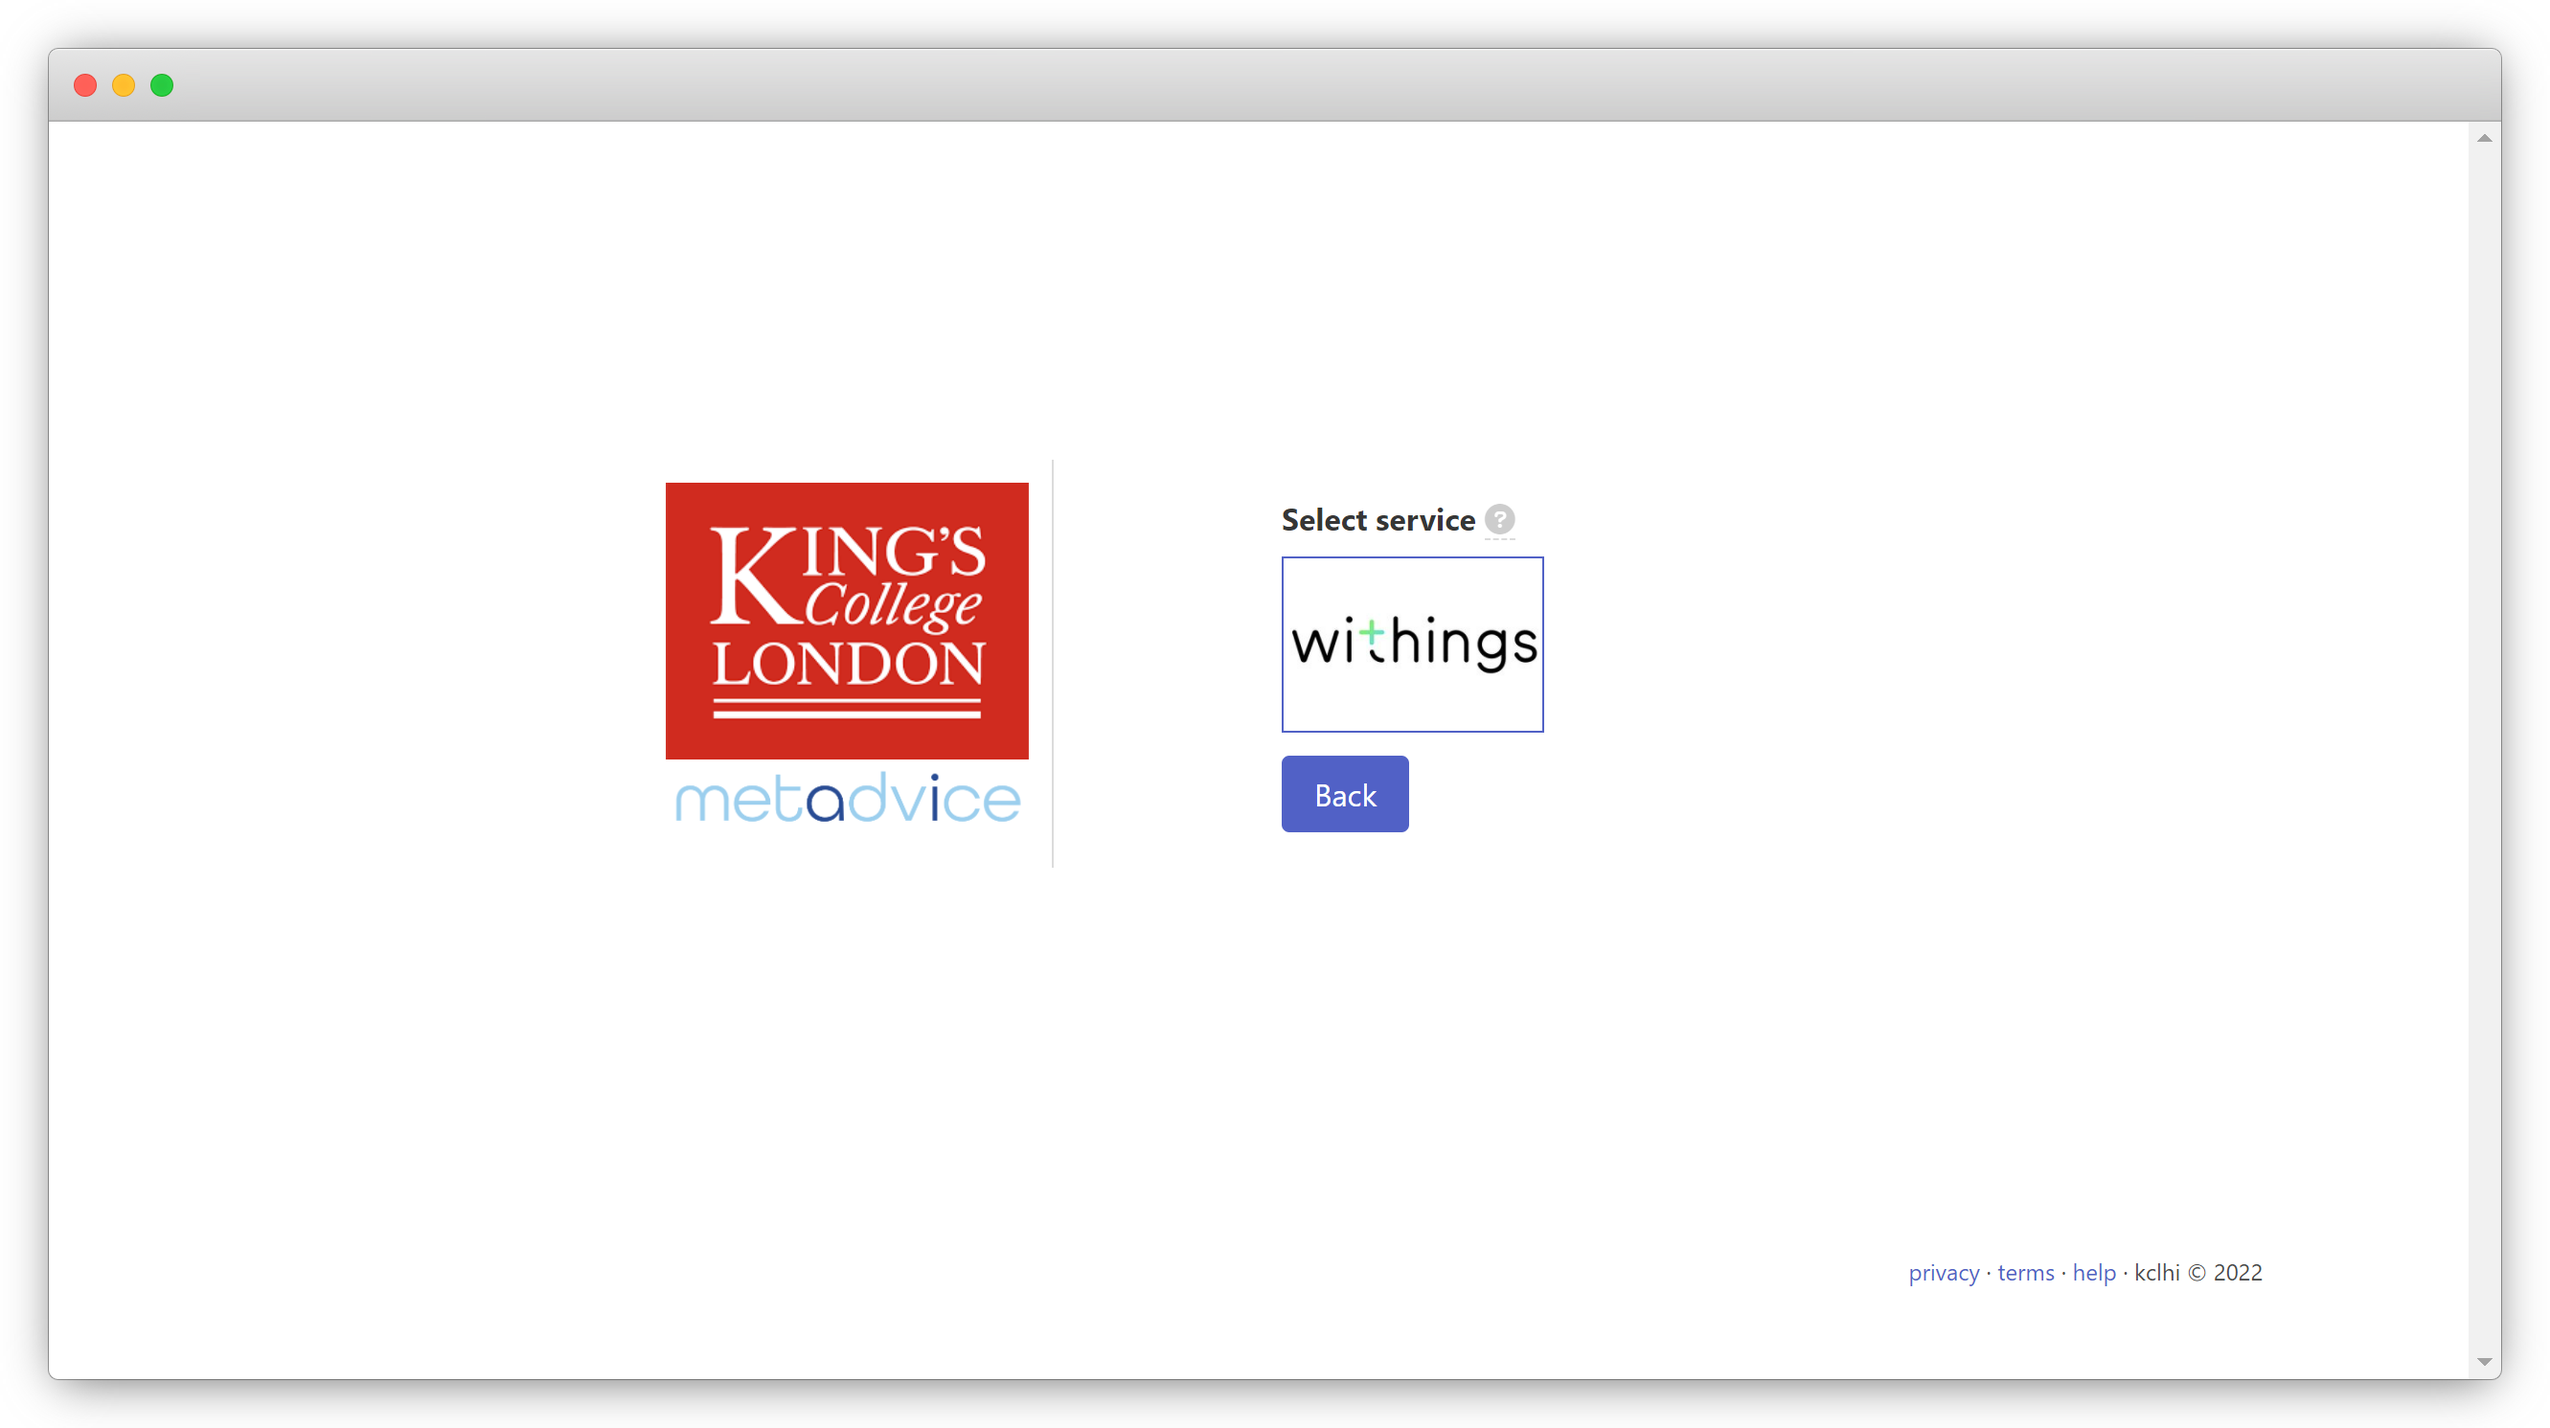
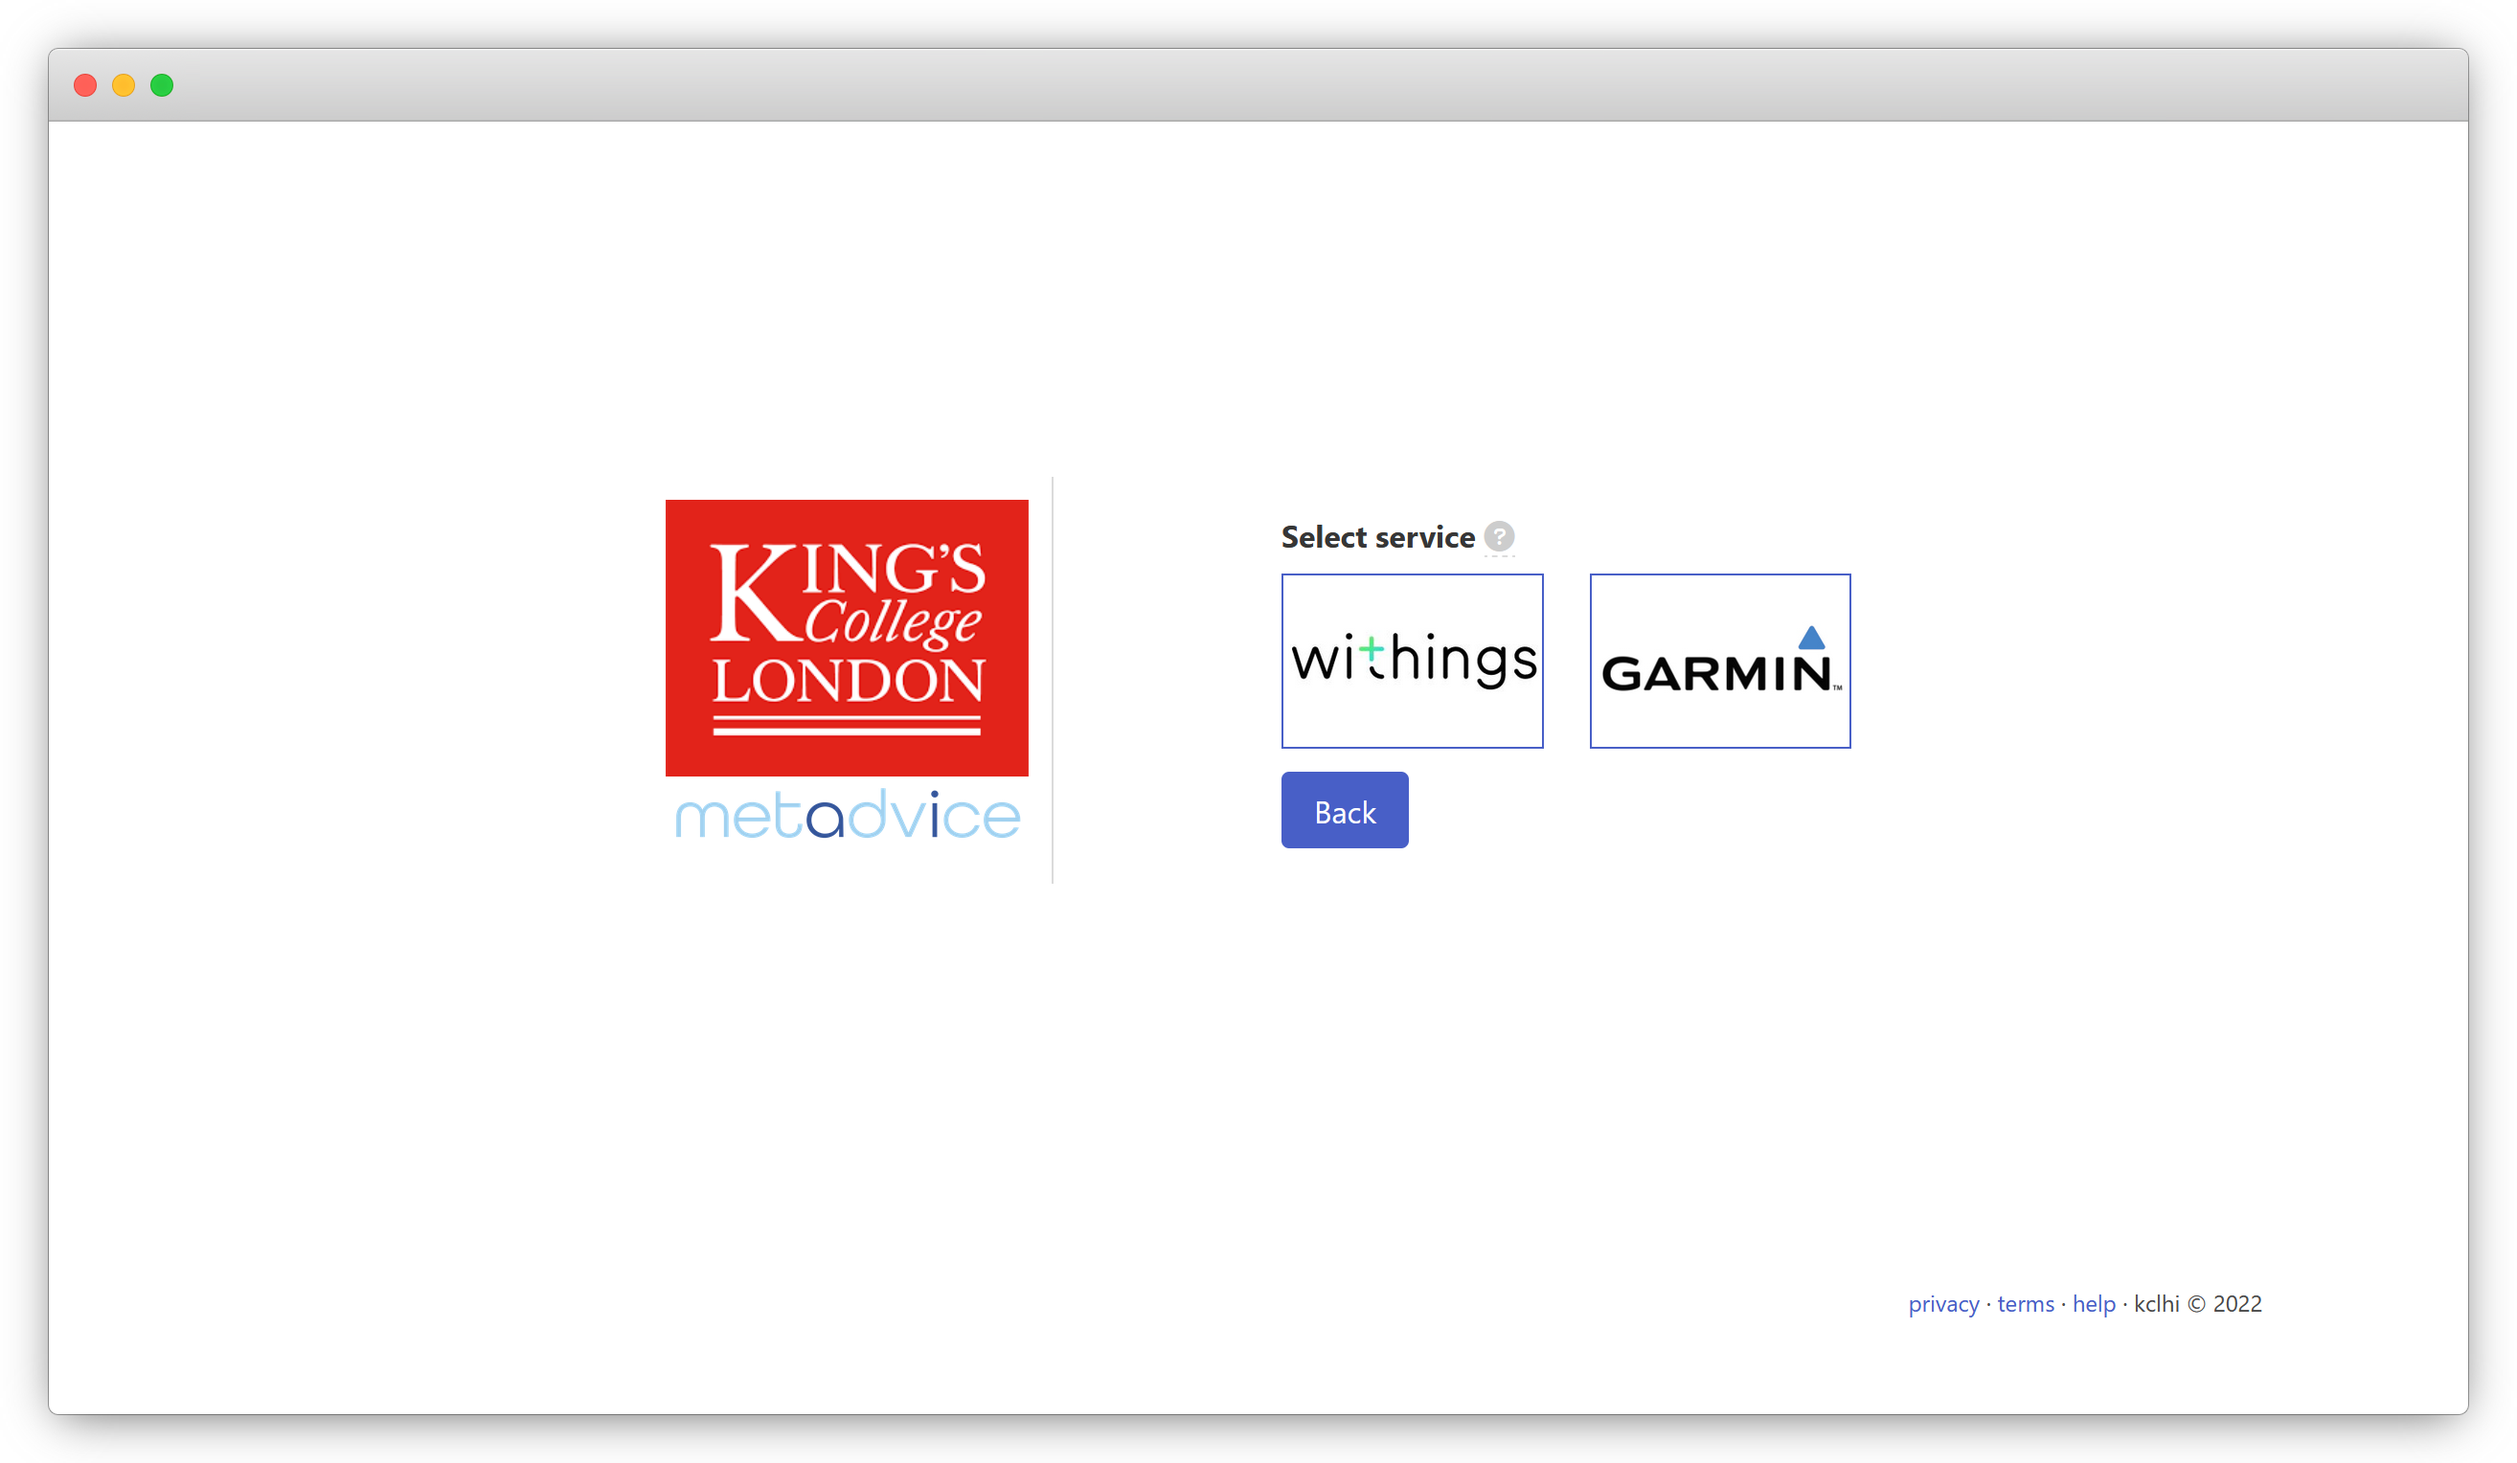
reflect
Add Garmin

diff --git a/content/_index.md b/content/_index.md
@@ -5,13 +5,13 @@ date: 2022-01-08
 
 ### reflect - **an epsrc iaa project exploring the impact of wearable data on personalised decision support**
 
-![metadvice](/img/wearable.png "metadvice")
+![wearable](/img/wearable.png "wearable")
 
 ### about
 
 The [epsrc `consult` project](https://gow.epsrc.ukri.org/NGBOViewGrant.aspx?GrantRef=EP/P010105/1) developed a [decision-support system](https://kclhi.org/consult/demo/?a=UGU2YmFxRUQ6dWtlN2JQRXk=) characterised by its integration of computational argumentation (a form of AI) with wearable device data.
 
-`reflect` is an [epsrc iaa project](https://kclpure.kcl.ac.uk/portal/en/projects/reflect-wearable-sensors-for-personalised-decision-support(a572899d-7799-40fa-a141-4e3efc79b7ca).html) that aims to generalise the wearable data collection logic developed within `consult`, in order to provide this data to other AI-based decision-support systems.
+`reflect` is an [epsrc iaa project](https://kclpure.kcl.ac.uk/portal/en/projects/reflect-wearable-sensors-for-personalised-decision-support(a572899d-7799-40fa-a141-4e3efc79b7ca).html) that aims to generalise and optimise the wearable data collection logic developed within `consult`, in order to provide this data to other AI-based decision-support systems.
 
 In doing so, the impact of wearable data on the operation of these systems, and thus on personalised patient healthcare, can be further explored.
 
@@ -31,8 +31,8 @@ In doing so, the impact of wearable data on the operation of these systems, and 
 
 ### devices
 
-|[![metadvice](/img/devices/withings.jpg "withings")](https://www.withings.com/uk/en/)|
-| - |
+|[![withings](/img/devices/withings.jpg "withings")](https://www.withings.com/uk/en/)|[![garmin](/img/devices/garmin.jpg "garmin")](https://www.garmin.com/en-GB/)|
+| - | - |
 
 &nbsp;
 *** 
@@ -47,9 +47,9 @@ These components then [combine](#flow) to collect, and provide access to, wearab
 
 `reflect`'s core components are as follows:
 
-- [`user`](https://gitlab.com/kclreflect/user) (microservice) - allows users, or a GP on their behalf, to connect their wearable devices - via the device vendor - with `reflect`
+- [`user`](https://gitlab.com/kclreflect/user) (microservice) - presents a patient-optimised interface that allows users, or a GP on their behalf, to connect their wearable devices - via the device vendor - with `reflect`
 - [`notify`](https://gitlab.com/kclreflect/device/-/tree/main/notify) (function) - receives data from the wearable devices, via the device vendors' servers
-- [`convert`](https://gitlab.com/kclreflect/data/-/tree/main/convert) (function) - standardises the data received from multiple vendors to [`fhir`](https://www.hl7.org/fhir/)
+- [`convert`](https://gitlab.com/kclreflect/data/-/tree/main/convert) (function) - standardises the data received from multiple vendors to [`fhir`](https://www.hl7.org/fhir/), to ensure a unified data format is presented to third-party systems
 - [`api`](https://gitlab.com/kclreflect/api) (microservice) - allows decision-support systems to access the collected data
 
 View [all `reflect` software repositories](https://gitlab.com/kclreflect).
@@ -66,7 +66,8 @@ View [all `reflect` software repositories](https://gitlab.com/kclreflect).
 
 #### architecture
 
-`reflect`'s software components are designed to be deployed to a Kubernetes cluster (or to Minikube for testing), which can be realised by a cloud provider such as AWS as follows:
+`reflect`'s software components are designed to be deployed to a Kubernetes cluster (or to Minikube for testing), to ensure the scalability demands of external reasoners are met.
+This cluster can be realised by a cloud provider such as AWS as follows:
 
 {{< figure src="/img/software/architecture.png" >}}
 
